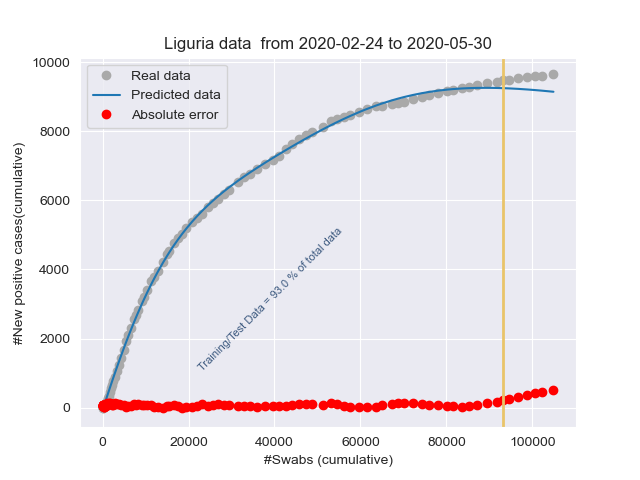
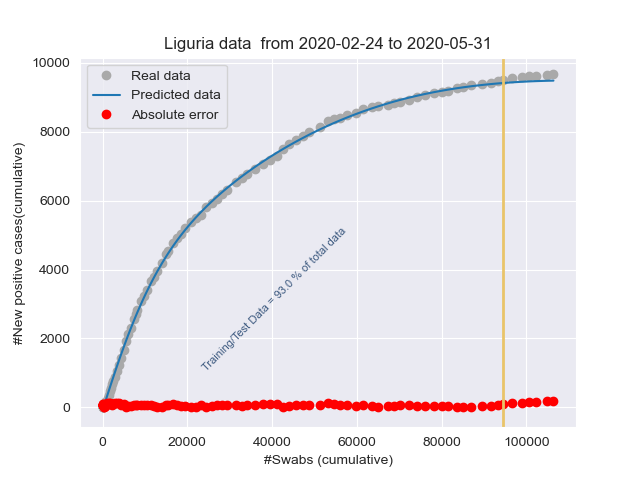
Add files via upload

diff --git a/stat_Italy.html b/stat_Italy.html
@@ -1,1 +1,1 @@
-<!DOCTYPE html><html lang="it"><head><title>Results</title><meta charset="utf-8"><meta name="viewport" content="width=device-width, initial-scale=1"><link rel="stylesheet" href="bootstrap.min.css"><script src="https://ajax.googleapis.com/ajax/libs/jquery/3.4.1/jquery.min.js"></script><script src="https://maxcdn.bootstrapcdn.com/bootstrap/3.4.1/js/bootstrap.min.js"></script></head><body><h3>Day: 2020-05-30</h3><p class="lead my-3">New positive cases: <b>416</b></p><p class="lead my-3">Number of swabs: <b>69342.0</b></p><p class="lead my-3">Postive cases/Swabs: <b>0.6 %</b></p><p class="lead my-3">Number of people admitted to Intensive care: <b>450</b></p><p class="lead my-3">Number of recovered people: <b>2789.0</b></p><p class="lead my-3">Number of dead people: <b>111.0</b></p></body></html>
+<!DOCTYPE html><html lang="it"><head><title>Results</title><meta charset="utf-8"><meta name="viewport" content="width=device-width, initial-scale=1"><link rel="stylesheet" href="bootstrap.min.css"><script src="https://ajax.googleapis.com/ajax/libs/jquery/3.4.1/jquery.min.js"></script><script src="https://maxcdn.bootstrapcdn.com/bootstrap/3.4.1/js/bootstrap.min.js"></script></head><body><h3>Day: 2020-05-31</h3><p class="lead my-3">New positive cases: <b>355</b></p><p class="lead my-3">Number of swabs: <b>54118.0</b></p><p class="lead my-3">Postive cases/Swabs: <b>0.66 %</b></p><p class="lead my-3">Number of people admitted to Intensive care: <b>435</b></p><p class="lead my-3">Number of recovered people: <b>1874.0</b></p><p class="lead my-3">Number of dead people: <b>75.0</b></p></body></html>

diff --git a/stat_Lombardia.html b/stat_Lombardia.html
@@ -1,1 +1,1 @@
-<!DOCTYPE html><html lang="it"><head><title>Results</title><meta charset="utf-8"><meta name="viewport" content="width=device-width, initial-scale=1"><link rel="stylesheet" href="bootstrap.min.css"><script src="https://ajax.googleapis.com/ajax/libs/jquery/3.4.1/jquery.min.js"></script><script src="https://maxcdn.bootstrapcdn.com/bootstrap/3.4.1/js/bootstrap.min.js"></script></head><body><h3>Day: 2020-05-30</h3><p class="lead my-3">New positive cases: <b>221</b></p><p class="lead my-3">Number of swabs: <b>14301.0</b></p><p class="lead my-3">Postive cases/Swabs: <b>1.55 %</b></p><p class="lead my-3">Number of people admitted to Intensive care: <b>172</b></p><p class="lead my-3">Number of recovered people: <b>1028.0</b></p><p class="lead my-3">Number of dead people: <b>67.0</b></p></body></html>
+<!DOCTYPE html><html lang="it"><head><title>Results</title><meta charset="utf-8"><meta name="viewport" content="width=device-width, initial-scale=1"><link rel="stylesheet" href="bootstrap.min.css"><script src="https://ajax.googleapis.com/ajax/libs/jquery/3.4.1/jquery.min.js"></script><script src="https://maxcdn.bootstrapcdn.com/bootstrap/3.4.1/js/bootstrap.min.js"></script></head><body><h3>Day: 2020-05-31</h3><p class="lead my-3">New positive cases: <b>210</b></p><p class="lead my-3">Number of swabs: <b>12427.0</b></p><p class="lead my-3">Postive cases/Swabs: <b>1.69 %</b></p><p class="lead my-3">Number of people admitted to Intensive care: <b>170</b></p><p class="lead my-3">Number of recovered people: <b>990.0</b></p><p class="lead my-3">Number of dead people: <b>33.0</b></p></body></html>

diff --git a/stat_Emilia-Romagna.html b/stat_Emilia-Romagna.html
@@ -1,1 +1,1 @@
-<!DOCTYPE html><html lang="it"><head><title>Results</title><meta charset="utf-8"><meta name="viewport" content="width=device-width, initial-scale=1"><link rel="stylesheet" href="bootstrap.min.css"><script src="https://ajax.googleapis.com/ajax/libs/jquery/3.4.1/jquery.min.js"></script><script src="https://maxcdn.bootstrapcdn.com/bootstrap/3.4.1/js/bootstrap.min.js"></script></head><body><h3>Day: 2020-05-30</h3><p class="lead my-3">New positive cases: <b>20</b></p><p class="lead my-3">Number of swabs: <b>4464.0</b></p><p class="lead my-3">Postive cases/Swabs: <b>0.45 %</b></p><p class="lead my-3">Number of people admitted to Intensive care: <b>65</b></p><p class="lead my-3">Number of recovered people: <b>300.0</b></p><p class="lead my-3">Number of dead people: <b>5.0</b></p></body></html>
+<!DOCTYPE html><html lang="it"><head><title>Results</title><meta charset="utf-8"><meta name="viewport" content="width=device-width, initial-scale=1"><link rel="stylesheet" href="bootstrap.min.css"><script src="https://ajax.googleapis.com/ajax/libs/jquery/3.4.1/jquery.min.js"></script><script src="https://maxcdn.bootstrapcdn.com/bootstrap/3.4.1/js/bootstrap.min.js"></script></head><body><h3>Day: 2020-05-31</h3><p class="lead my-3">New positive cases: <b>31</b></p><p class="lead my-3">Number of swabs: <b>4109.0</b></p><p class="lead my-3">Postive cases/Swabs: <b>0.75 %</b></p><p class="lead my-3">Number of people admitted to Intensive care: <b>57</b></p><p class="lead my-3">Number of recovered people: <b>140.0</b></p><p class="lead my-3">Number of dead people: <b>7.0</b></p></body></html>

diff --git a/stat_Piemonte.html b/stat_Piemonte.html
@@ -1,1 +1,1 @@
-<!DOCTYPE html><html lang="it"><head><title>Results</title><meta charset="utf-8"><meta name="viewport" content="width=device-width, initial-scale=1"><link rel="stylesheet" href="bootstrap.min.css"><script src="https://ajax.googleapis.com/ajax/libs/jquery/3.4.1/jquery.min.js"></script><script src="https://maxcdn.bootstrapcdn.com/bootstrap/3.4.1/js/bootstrap.min.js"></script></head><body><h3>Day: 2020-05-30</h3><p class="lead my-3">New positive cases: <b>82</b></p><p class="lead my-3">Number of swabs: <b>6331.0</b></p><p class="lead my-3">Postive cases/Swabs: <b>1.3 %</b></p><p class="lead my-3">Number of people admitted to Intensive care: <b>60</b></p><p class="lead my-3">Number of recovered people: <b>443.0</b></p><p class="lead my-3">Number of dead people: <b>7.0</b></p></body></html>
+<!DOCTYPE html><html lang="it"><head><title>Results</title><meta charset="utf-8"><meta name="viewport" content="width=device-width, initial-scale=1"><link rel="stylesheet" href="bootstrap.min.css"><script src="https://ajax.googleapis.com/ajax/libs/jquery/3.4.1/jquery.min.js"></script><script src="https://maxcdn.bootstrapcdn.com/bootstrap/3.4.1/js/bootstrap.min.js"></script></head><body><h3>Day: 2020-05-31</h3><p class="lead my-3">New positive cases: <b>54</b></p><p class="lead my-3">Number of swabs: <b>3305.0</b></p><p class="lead my-3">Postive cases/Swabs: <b>1.63 %</b></p><p class="lead my-3">Number of people admitted to Intensive care: <b>58</b></p><p class="lead my-3">Number of recovered people: <b>174.0</b></p><p class="lead my-3">Number of dead people: <b>9.0</b></p></body></html>

diff --git a/stat_Veneto.html b/stat_Veneto.html
@@ -1,1 +1,1 @@
-<!DOCTYPE html><html lang="it"><head><title>Results</title><meta charset="utf-8"><meta name="viewport" content="width=device-width, initial-scale=1"><link rel="stylesheet" href="bootstrap.min.css"><script src="https://ajax.googleapis.com/ajax/libs/jquery/3.4.1/jquery.min.js"></script><script src="https://maxcdn.bootstrapcdn.com/bootstrap/3.4.1/js/bootstrap.min.js"></script></head><body><h3>Day: 2020-05-30</h3><p class="lead my-3">New positive cases: <b>12</b></p><p class="lead my-3">Number of swabs: <b>15102.0</b></p><p class="lead my-3">Postive cases/Swabs: <b>0.08 %</b></p><p class="lead my-3">Number of people admitted to Intensive care: <b>7</b></p><p class="lead my-3">Number of recovered people: <b>239.0</b></p><p class="lead my-3">Number of dead people: <b>10.0</b></p></body></html>
+<!DOCTYPE html><html lang="it"><head><title>Results</title><meta charset="utf-8"><meta name="viewport" content="width=device-width, initial-scale=1"><link rel="stylesheet" href="bootstrap.min.css"><script src="https://ajax.googleapis.com/ajax/libs/jquery/3.4.1/jquery.min.js"></script><script src="https://maxcdn.bootstrapcdn.com/bootstrap/3.4.1/js/bootstrap.min.js"></script></head><body><h3>Day: 2020-05-31</h3><p class="lead my-3">New positive cases: <b>6</b></p><p class="lead my-3">Number of swabs: <b>9617.0</b></p><p class="lead my-3">Postive cases/Swabs: <b>0.06 %</b></p><p class="lead my-3">Number of people admitted to Intensive care: <b>6</b></p><p class="lead my-3">Number of recovered people: <b>116.0</b></p><p class="lead my-3">Number of dead people: <b>2.0</b></p></body></html>

diff --git a/stat_Lazio.html b/stat_Lazio.html
@@ -1,1 +1,1 @@
-<!DOCTYPE html><html lang="it"><head><title>Results</title><meta charset="utf-8"><meta name="viewport" content="width=device-width, initial-scale=1"><link rel="stylesheet" href="bootstrap.min.css"><script src="https://ajax.googleapis.com/ajax/libs/jquery/3.4.1/jquery.min.js"></script><script src="https://maxcdn.bootstrapcdn.com/bootstrap/3.4.1/js/bootstrap.min.js"></script></head><body><h3>Day: 2020-05-30</h3><p class="lead my-3">New positive cases: <b>6</b></p><p class="lead my-3">Number of swabs: <b>4121.0</b></p><p class="lead my-3">Postive cases/Swabs: <b>0.15 %</b></p><p class="lead my-3">Number of people admitted to Intensive care: <b>58</b></p><p class="lead my-3">Number of recovered people: <b>107.0</b></p><p class="lead my-3">Number of dead people: <b>7.0</b></p></body></html>
+<!DOCTYPE html><html lang="it"><head><title>Results</title><meta charset="utf-8"><meta name="viewport" content="width=device-width, initial-scale=1"><link rel="stylesheet" href="bootstrap.min.css"><script src="https://ajax.googleapis.com/ajax/libs/jquery/3.4.1/jquery.min.js"></script><script src="https://maxcdn.bootstrapcdn.com/bootstrap/3.4.1/js/bootstrap.min.js"></script></head><body><h3>Day: 2020-05-31</h3><p class="lead my-3">New positive cases: <b>13</b></p><p class="lead my-3">Number of swabs: <b>2086.0</b></p><p class="lead my-3">Postive cases/Swabs: <b>0.62 %</b></p><p class="lead my-3">Number of people admitted to Intensive care: <b>57</b></p><p class="lead my-3">Number of recovered people: <b>78.0</b></p><p class="lead my-3">Number of dead people: <b>7.0</b></p></body></html>

diff --git a/stat_Liguria.html b/stat_Liguria.html
@@ -1,1 +1,1 @@
-<!DOCTYPE html><html lang="it"><head><title>Results</title><meta charset="utf-8"><meta name="viewport" content="width=device-width, initial-scale=1"><link rel="stylesheet" href="bootstrap.min.css"><script src="https://ajax.googleapis.com/ajax/libs/jquery/3.4.1/jquery.min.js"></script><script src="https://maxcdn.bootstrapcdn.com/bootstrap/3.4.1/js/bootstrap.min.js"></script></head><body><h3>Day: 2020-05-30</h3><p class="lead my-3">New positive cases: <b>32</b></p><p class="lead my-3">Number of swabs: <b>2719.0</b></p><p class="lead my-3">Postive cases/Swabs: <b>1.18 %</b></p><p class="lead my-3">Number of people admitted to Intensive care: <b>9</b></p><p class="lead my-3">Number of recovered people: <b>238.0</b></p><p class="lead my-3">Number of dead people: <b>7.0</b></p></body></html>
+<!DOCTYPE html><html lang="it"><head><title>Results</title><meta charset="utf-8"><meta name="viewport" content="width=device-width, initial-scale=1"><link rel="stylesheet" href="bootstrap.min.css"><script src="https://ajax.googleapis.com/ajax/libs/jquery/3.4.1/jquery.min.js"></script><script src="https://maxcdn.bootstrapcdn.com/bootstrap/3.4.1/js/bootstrap.min.js"></script></head><body><h3>Day: 2020-05-31</h3><p class="lead my-3">New positive cases: <b>12</b></p><p class="lead my-3">Number of swabs: <b>1471.0</b></p><p class="lead my-3">Postive cases/Swabs: <b>0.82 %</b></p><p class="lead my-3">Number of people admitted to Intensive care: <b>8</b></p><p class="lead my-3">Number of recovered people: <b>118.0</b></p><p class="lead my-3">Number of dead people: <b>6.0</b></p></body></html>

diff --git a/stat_Toscana.html b/stat_Toscana.html
@@ -1,1 +1,1 @@
-<!DOCTYPE html><html lang="it"><head><title>Results</title><meta charset="utf-8"><meta name="viewport" content="width=device-width, initial-scale=1"><link rel="stylesheet" href="bootstrap.min.css"><script src="https://ajax.googleapis.com/ajax/libs/jquery/3.4.1/jquery.min.js"></script><script src="https://maxcdn.bootstrapcdn.com/bootstrap/3.4.1/js/bootstrap.min.js"></script></head><body><h3>Day: 2020-05-30</h3><p class="lead my-3">New positive cases: <b>12</b></p><p class="lead my-3">Number of swabs: <b>3389.0</b></p><p class="lead my-3">Postive cases/Swabs: <b>0.35 %</b></p><p class="lead my-3">Number of people admitted to Intensive care: <b>27</b></p><p class="lead my-3">Number of recovered people: <b>95.0</b></p><p class="lead my-3">Number of dead people: <b>6.0</b></p></body></html>
+<!DOCTYPE html><html lang="it"><head><title>Results</title><meta charset="utf-8"><meta name="viewport" content="width=device-width, initial-scale=1"><link rel="stylesheet" href="bootstrap.min.css"><script src="https://ajax.googleapis.com/ajax/libs/jquery/3.4.1/jquery.min.js"></script><script src="https://maxcdn.bootstrapcdn.com/bootstrap/3.4.1/js/bootstrap.min.js"></script></head><body><h3>Day: 2020-05-31</h3><p class="lead my-3">New positive cases: <b>4</b></p><p class="lead my-3">Number of swabs: <b>2649.0</b></p><p class="lead my-3">Postive cases/Swabs: <b>0.15 %</b></p><p class="lead my-3">Number of people admitted to Intensive care: <b>28</b></p><p class="lead my-3">Number of recovered people: <b>55.0</b></p><p class="lead my-3">Number of dead people: <b>4.0</b></p></body></html>

diff --git a/stat_Puglia.html b/stat_Puglia.html
@@ -1,1 +1,1 @@
-<!DOCTYPE html><html lang="it"><head><title>Results</title><meta charset="utf-8"><meta name="viewport" content="width=device-width, initial-scale=1"><link rel="stylesheet" href="bootstrap.min.css"><script src="https://ajax.googleapis.com/ajax/libs/jquery/3.4.1/jquery.min.js"></script><script src="https://maxcdn.bootstrapcdn.com/bootstrap/3.4.1/js/bootstrap.min.js"></script></head><body><h3>Day: 2020-05-30</h3><p class="lead my-3">New positive cases: <b>8</b></p><p class="lead my-3">Number of swabs: <b>2177.0</b></p><p class="lead my-3">Postive cases/Swabs: <b>0.37 %</b></p><p class="lead my-3">Number of people admitted to Intensive care: <b>12</b></p><p class="lead my-3">Number of recovered people: <b>69.0</b></p><p class="lead my-3">Number of dead people: <b>0.0</b></p></body></html>
+<!DOCTYPE html><html lang="it"><head><title>Results</title><meta charset="utf-8"><meta name="viewport" content="width=device-width, initial-scale=1"><link rel="stylesheet" href="bootstrap.min.css"><script src="https://ajax.googleapis.com/ajax/libs/jquery/3.4.1/jquery.min.js"></script><script src="https://maxcdn.bootstrapcdn.com/bootstrap/3.4.1/js/bootstrap.min.js"></script></head><body><h3>Day: 2020-05-31</h3><p class="lead my-3">New positive cases: <b>4</b></p><p class="lead my-3">Number of swabs: <b>1887.0</b></p><p class="lead my-3">Postive cases/Swabs: <b>0.21 %</b></p><p class="lead my-3">Number of people admitted to Intensive care: <b>11</b></p><p class="lead my-3">Number of recovered people: <b>45.0</b></p><p class="lead my-3">Number of dead people: <b>4.0</b></p></body></html>

diff --git a/stat_Sicilia.html b/stat_Sicilia.html
@@ -1,1 +1,1 @@
-<!DOCTYPE html><html lang="it"><head><title>Results</title><meta charset="utf-8"><meta name="viewport" content="width=device-width, initial-scale=1"><link rel="stylesheet" href="bootstrap.min.css"><script src="https://ajax.googleapis.com/ajax/libs/jquery/3.4.1/jquery.min.js"></script><script src="https://maxcdn.bootstrapcdn.com/bootstrap/3.4.1/js/bootstrap.min.js"></script></head><body><h3>Day: 2020-05-30</h3><p class="lead my-3">New positive cases: <b>2</b></p><p class="lead my-3">Number of swabs: <b>2892.0</b></p><p class="lead my-3">Postive cases/Swabs: <b>0.07 %</b></p><p class="lead my-3">Number of people admitted to Intensive care: <b>7</b></p><p class="lead my-3">Number of recovered people: <b>139.0</b></p><p class="lead my-3">Number of dead people: <b>1.0</b></p></body></html>
+<!DOCTYPE html><html lang="it"><head><title>Results</title><meta charset="utf-8"><meta name="viewport" content="width=device-width, initial-scale=1"><link rel="stylesheet" href="bootstrap.min.css"><script src="https://ajax.googleapis.com/ajax/libs/jquery/3.4.1/jquery.min.js"></script><script src="https://maxcdn.bootstrapcdn.com/bootstrap/3.4.1/js/bootstrap.min.js"></script></head><body><h3>Day: 2020-05-31</h3><p class="lead my-3">New positive cases: <b>1</b></p><p class="lead my-3">Number of swabs: <b>1183.0</b></p><p class="lead my-3">Postive cases/Swabs: <b>0.08 %</b></p><p class="lead my-3">Number of people admitted to Intensive care: <b>7</b></p><p class="lead my-3">Number of recovered people: <b>13.0</b></p><p class="lead my-3">Number of dead people: <b>1.0</b></p></body></html>

diff --git a/stat_Campania.html b/stat_Campania.html
@@ -1,1 +1,1 @@
-<!DOCTYPE html><html lang="it"><head><title>Results</title><meta charset="utf-8"><meta name="viewport" content="width=device-width, initial-scale=1"><link rel="stylesheet" href="bootstrap.min.css"><script src="https://ajax.googleapis.com/ajax/libs/jquery/3.4.1/jquery.min.js"></script><script src="https://maxcdn.bootstrapcdn.com/bootstrap/3.4.1/js/bootstrap.min.js"></script></head><body><h3>Day: 2020-05-30</h3><p class="lead my-3">New positive cases: <b>10</b></p><p class="lead my-3">Number of swabs: <b>4364.0</b></p><p class="lead my-3">Postive cases/Swabs: <b>0.23 %</b></p><p class="lead my-3">Number of people admitted to Intensive care: <b>7</b></p><p class="lead my-3">Number of recovered people: <b>15.0</b></p><p class="lead my-3">Number of dead people: <b>0.0</b></p></body></html>
+<!DOCTYPE html><html lang="it"><head><title>Results</title><meta charset="utf-8"><meta name="viewport" content="width=device-width, initial-scale=1"><link rel="stylesheet" href="bootstrap.min.css"><script src="https://ajax.googleapis.com/ajax/libs/jquery/3.4.1/jquery.min.js"></script><script src="https://maxcdn.bootstrapcdn.com/bootstrap/3.4.1/js/bootstrap.min.js"></script></head><body><h3>Day: 2020-05-31</h3><p class="lead my-3">New positive cases: <b>5</b></p><p class="lead my-3">Number of swabs: <b>3510.0</b></p><p class="lead my-3">Postive cases/Swabs: <b>0.14 %</b></p><p class="lead my-3">Number of people admitted to Intensive care: <b>5</b></p><p class="lead my-3">Number of recovered people: <b>5.0</b></p><p class="lead my-3">Number of dead people: <b>1.0</b></p></body></html>

diff --git a/stat_Friuli Venezia Giulia.html b/stat_Friuli Venezia Giulia.html
@@ -1,1 +1,1 @@
-<!DOCTYPE html><html lang="it"><head><title>Results</title><meta charset="utf-8"><meta name="viewport" content="width=device-width, initial-scale=1"><link rel="stylesheet" href="bootstrap.min.css"><script src="https://ajax.googleapis.com/ajax/libs/jquery/3.4.1/jquery.min.js"></script><script src="https://maxcdn.bootstrapcdn.com/bootstrap/3.4.1/js/bootstrap.min.js"></script></head><body><h3>Day: 2020-05-30</h3><p class="lead my-3">New positive cases: <b>4</b></p><p class="lead my-3">Number of swabs: <b>1138.0</b></p><p class="lead my-3">Postive cases/Swabs: <b>0.35 %</b></p><p class="lead my-3">Number of people admitted to Intensive care: <b>1</b></p><p class="lead my-3">Number of recovered people: <b>22.0</b></p><p class="lead my-3">Number of dead people: <b>0.0</b></p></body></html>
+<!DOCTYPE html><html lang="it"><head><title>Results</title><meta charset="utf-8"><meta name="viewport" content="width=device-width, initial-scale=1"><link rel="stylesheet" href="bootstrap.min.css"><script src="https://ajax.googleapis.com/ajax/libs/jquery/3.4.1/jquery.min.js"></script><script src="https://maxcdn.bootstrapcdn.com/bootstrap/3.4.1/js/bootstrap.min.js"></script></head><body><h3>Day: 2020-05-31</h3><p class="lead my-3">New positive cases: <b>2</b></p><p class="lead my-3">Number of swabs: <b>2402.0</b></p><p class="lead my-3">Postive cases/Swabs: <b>0.08 %</b></p><p class="lead my-3">Number of people admitted to Intensive care: <b>1</b></p><p class="lead my-3">Number of recovered people: <b>29.0</b></p><p class="lead my-3">Number of dead people: <b>0.0</b></p></body></html>
